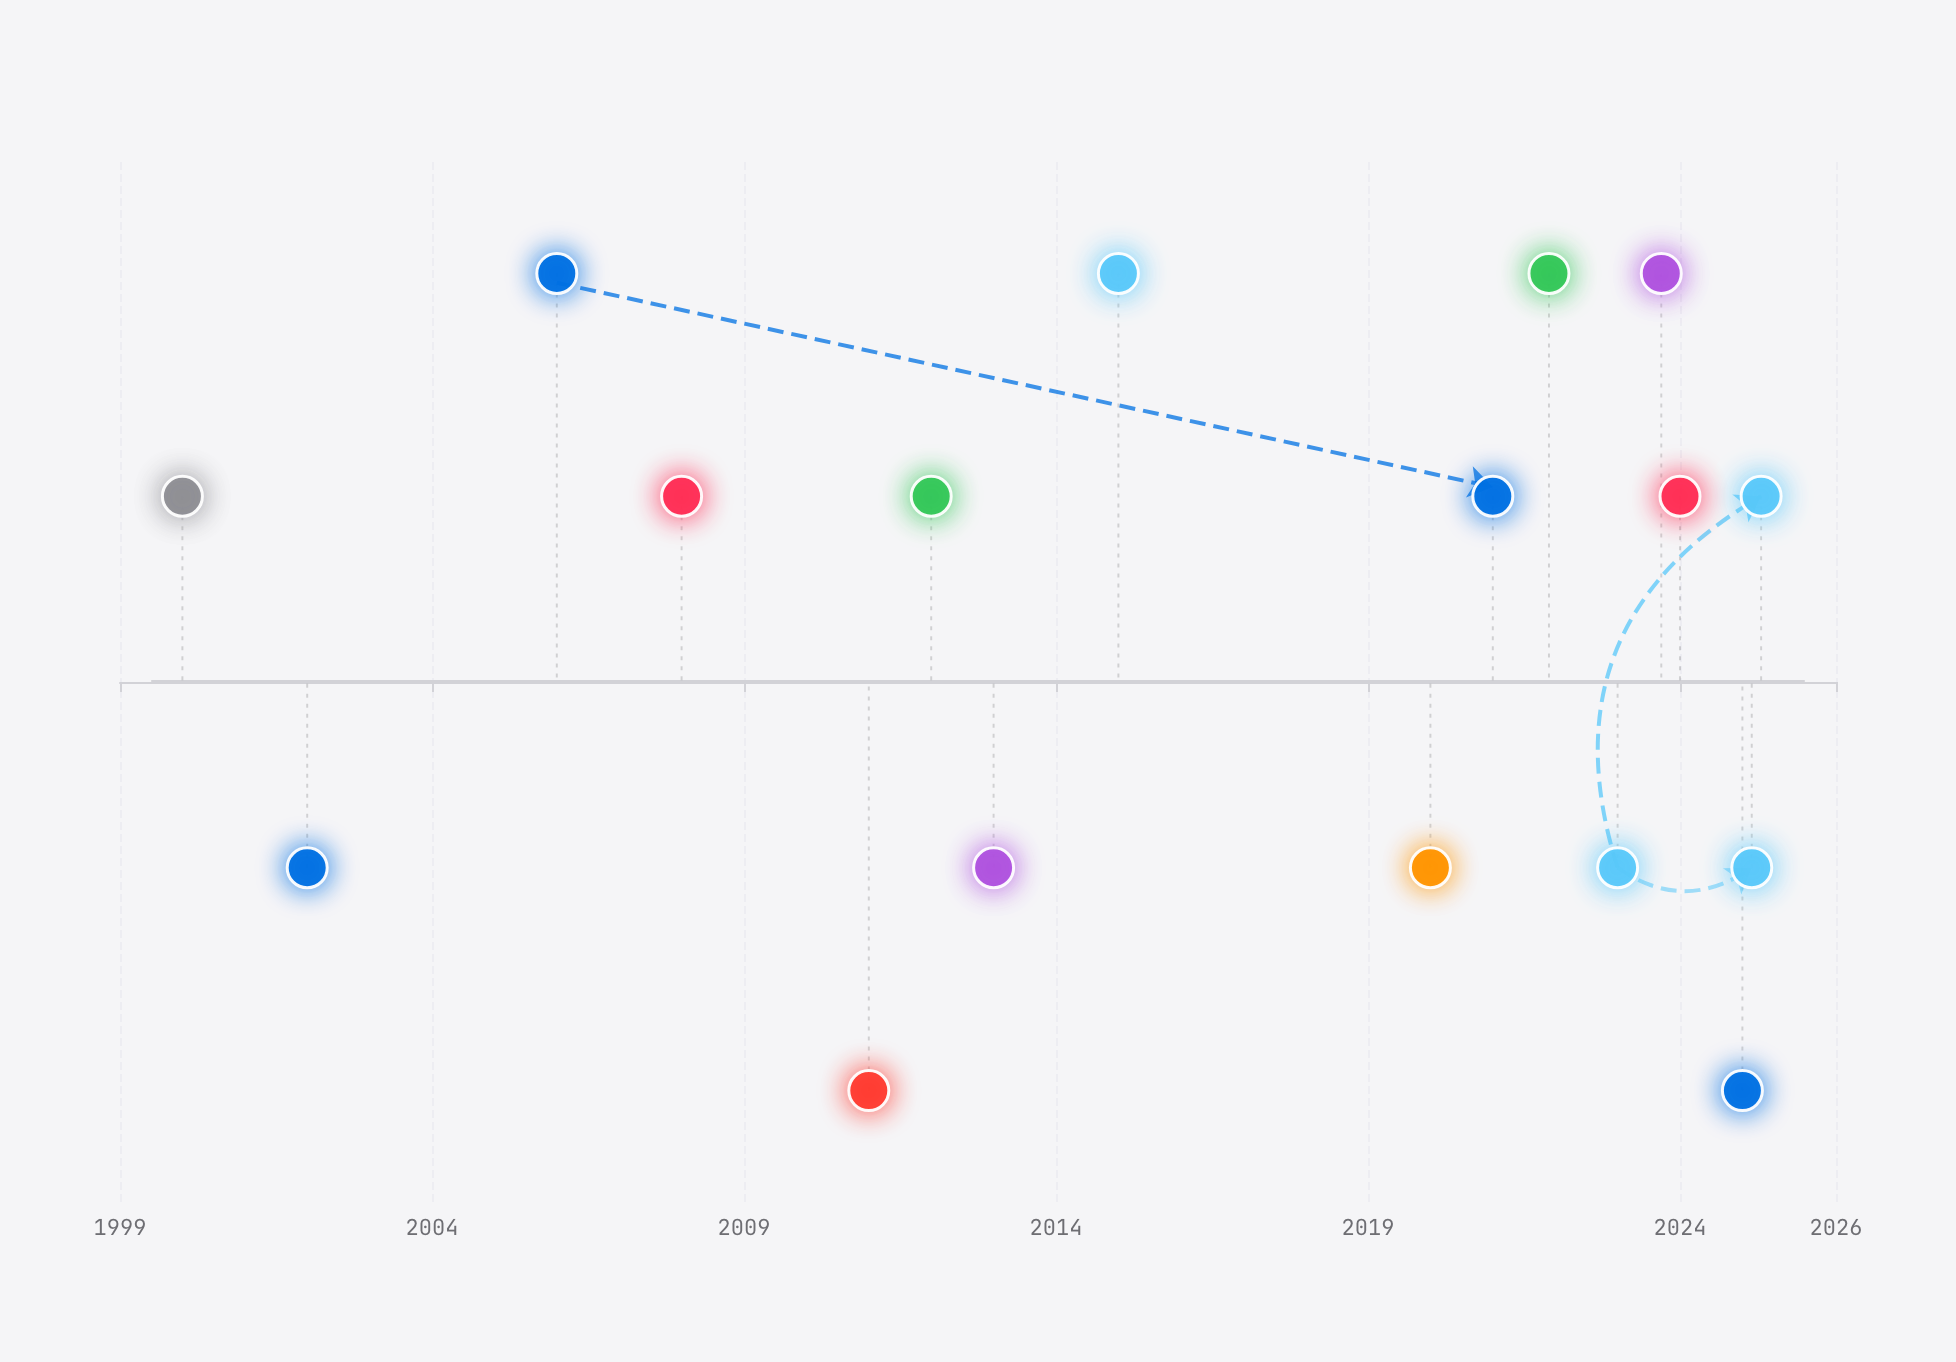
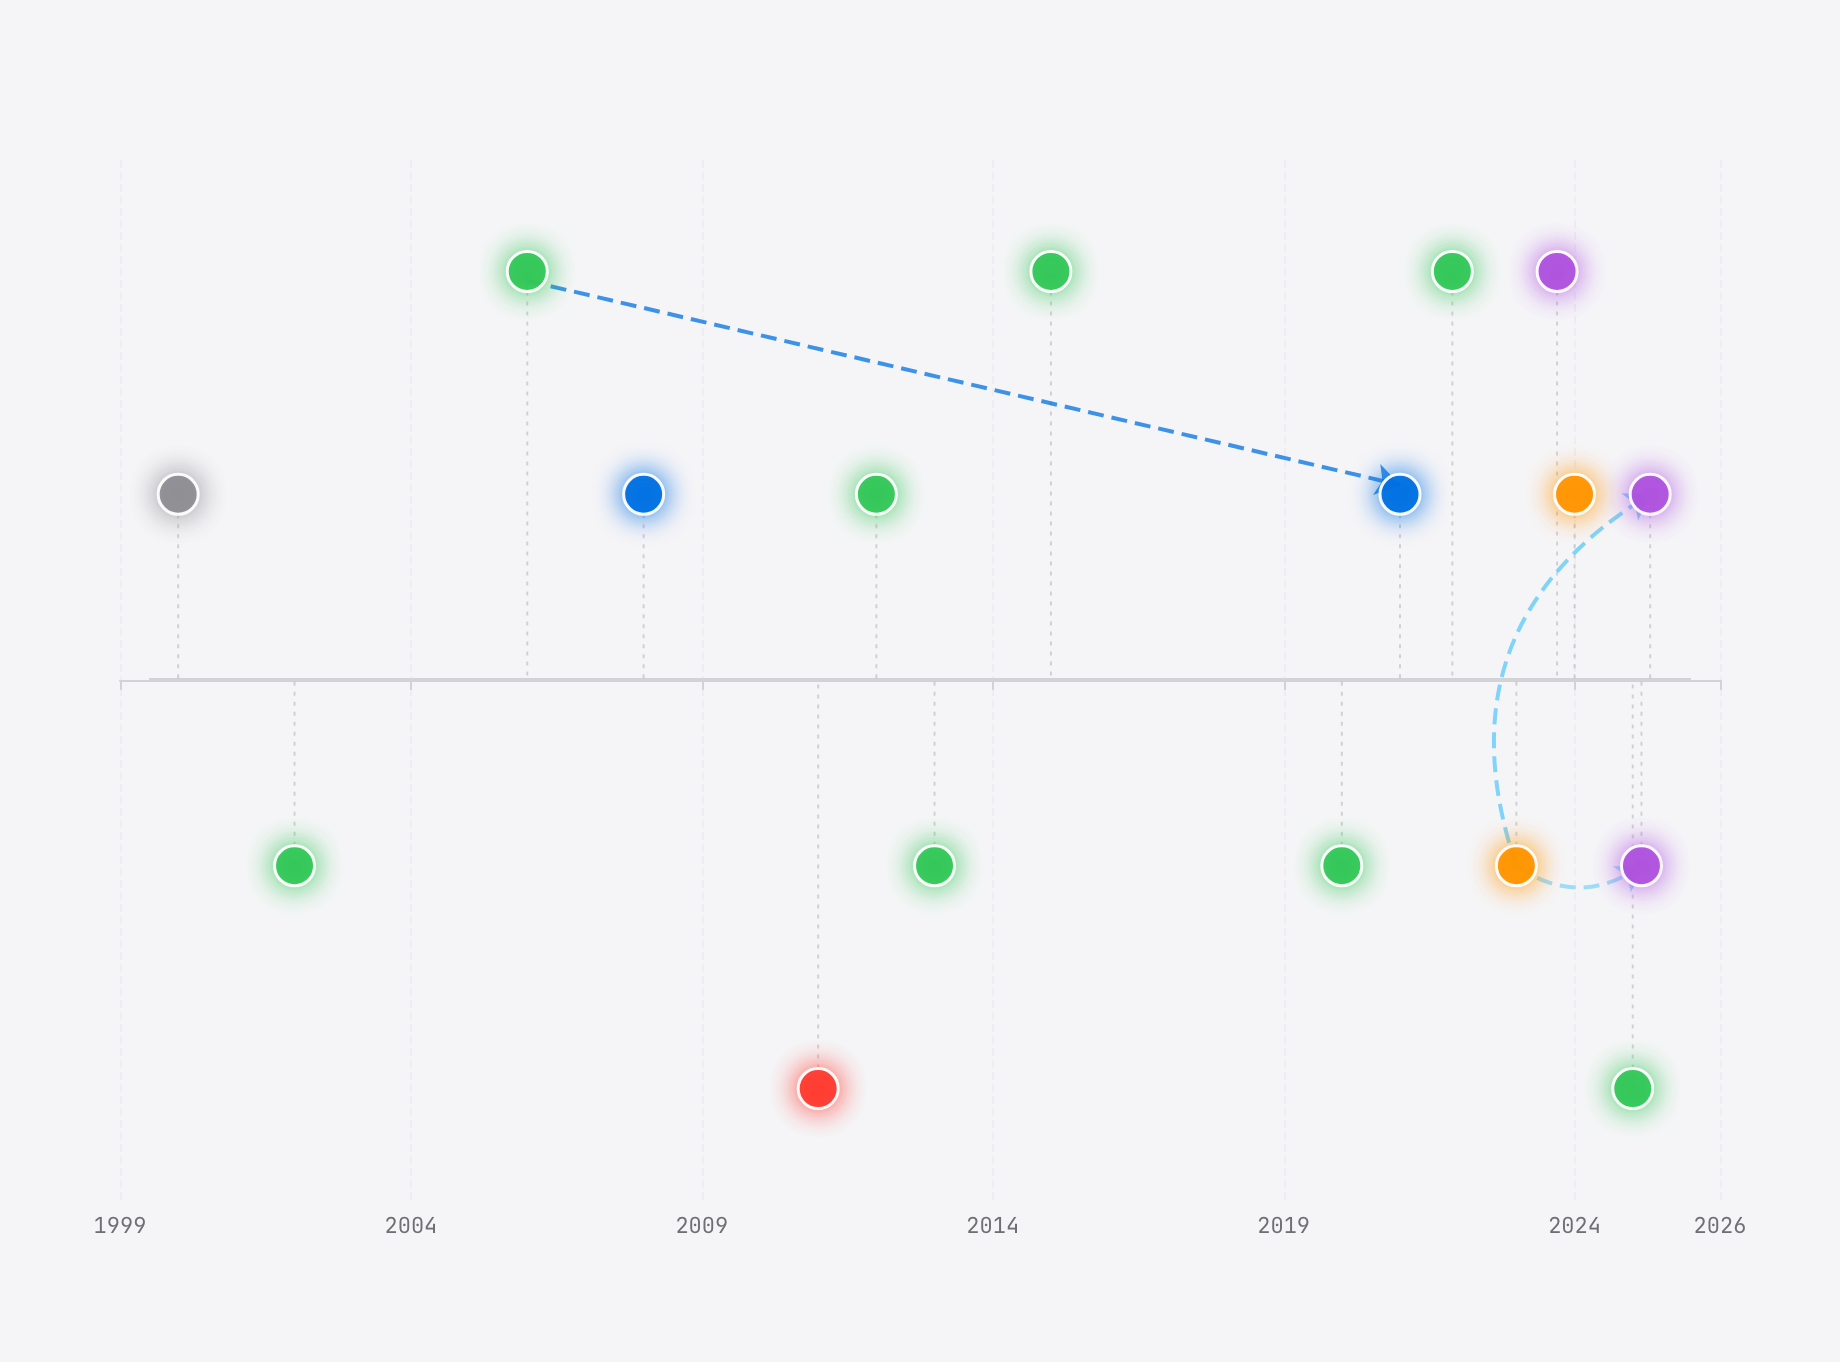
Part 0.1: add colour-key legends to Spinout Timeline + Age-at-Appointment
Two more legends in the same pattern as chart-2/3/5/g:

- Spinout Timeline (chart-7): existing dot colours were ad-hoc — some
  by firm, some by event type, some inconsistent. Recoloured the TREE
  events to a clean six-tier event-type scheme and injected a legend:
    Founding / spinout (green) · M&A / acquisition (blue) ·
    People move (purple) · Restructuring (orange) ·
    Closure (red) · Pre-existing (grey)
  Each event reclassified accordingly (e.g. Caffarra-leaves, Calanchi,
  Hunt are now People moves; Compass Lexecon merger and McKinsey-buys-
  Vivid are M&A; Compass Lexecon reshuffle and Keystone Europe build
  are Restructuring).

- Age at Appointment (chart-age): bars are coloured by firm category
  via SEGMENT_COLORS. Injected a legend showing the five canonical
  categories that actually appear in the dataset (Broad, Competition,
  Litigation, Macro, Overlap). Policy and Regulation are omitted
  because no firms in the n>=15 cut fall in those categories.

Re-exported chart-7 and chart-age mobile PNGs.

diff --git a/blog/consultancy-series/part0.1-visual-story.html b/blog/consultancy-series/part0.1-visual-story.html
@@ -1067,24 +1067,31 @@ const CHARGES_SANKEY = {
   ]
 };
 
+// Event-type colour scheme:
+//   Founding / spinout : #34c759 (green)
+//   M&A / acquisition  : #0071e3 (blue)
+//   People move        : #af52de (purple)
+//   Restructuring      : #ff9500 (orange)
+//   Closure / bankruptcy: #ff3b30 (red)
+//   Pre-existing context: #8e8e93 (grey)
 const TREE = [
   {y:2000,    name:"NERA UK incorporated",               color:'#8e8e93', desc:"UK office since 1980s.", lane: 1.0},
-  {y:2002,    name:"RBB Economics founded",              color:'#0071e3', desc:"Ridyard, Bishop, Baker + 13 leave NERA.", lane:-1.0},
-  {y:2006,    name:"Vivid Economics founded",            color:'#0071e3', desc:"Cameron Hepburn's climate boutique.", lane: 2.2},
-  {y:2008,    name:"Compass Lexecon merger",             color:'#ff2d55', desc:"FTI merges Compass + Lexecon.", lane: 1.0},
+  {y:2002,    name:"RBB Economics founded",              color:'#34c759', desc:"Ridyard, Bishop, Baker + 13 leave NERA.", lane:-1.0},
+  {y:2006,    name:"Vivid Economics founded",            color:'#34c759', desc:"Cameron Hepburn's climate boutique.", lane: 2.2},
+  {y:2008,    name:"Compass Lexecon merger",             color:'#0071e3', desc:"FTI merges Compass + Lexecon.", lane: 1.0},
   {y:2011,    name:"LECG bankruptcy",                    color:'#ff3b30', desc:"Alumni scatter to BRG and Compass Lexecon.", lane:-2.2},
   {y:2012,    name:"BRG launches UK",                    color:'#34c759', desc:"Teece's second firm.", lane: 1.0},
-  {y:2013,    name:"Fingleton Ltd founded",              color:'#af52de', desc:"John Fingleton leaves OFT.", lane:-1.0},
-  {y:2015,    name:"Flint Global founded",               color:'#5ac8fa', desc:"Richards + Fraser found political advisory.", lane: 2.2},
-  {y:2020,    name:"Pragmatix Advisory",                 color:'#ff9500', desc:"Mark Pragnell leaves Cebr.", lane:-1.0},
+  {y:2013,    name:"Fingleton Ltd founded",              color:'#34c759', desc:"John Fingleton leaves OFT.", lane:-1.0},
+  {y:2015,    name:"Flint Global founded",               color:'#34c759', desc:"Richards + Fraser found political advisory.", lane: 2.2},
+  {y:2020,    name:"Pragmatix Advisory",                 color:'#34c759', desc:"Mark Pragnell leaves Cebr.", lane:-1.0},
   {y:2021,    name:"McKinsey buys Vivid",                color:'#0071e3', desc:"130 economists absorbed (Mar 2021).", lane: 1.0},
   {y:2021.9,  name:"Grant Thornton Economics launches",  color:'#34c759', desc:"Horn + Williams hired from A&M (Nov 2021).", lane: 2.2},
-  {y:2023,    name:"Keystone Europe built",              color:'#5ac8fa', desc:"Caffarra, Coscelli, Hunt — three senior hires in six months.", lane:-1.0},
+  {y:2023,    name:"Keystone Europe built",              color:'#ff9500', desc:"Caffarra, Coscelli, Hunt — three senior hires in six months.", lane:-1.0},
   {y:2023.7,  name:"Caffarra leaves Keystone",           color:'#af52de', desc:"Moves to UCL + CEPR. No commercial firm.", lane: 2.2},
-  {y:2024,    name:"Compass Lexecon reshuffle",          color:'#ff2d55', desc:"Coppi/Dryden/Edwards-Warren become co-heads (Feb 2024).", lane: 1.0},
-  {y:2025,    name:"Econic Partners launches",           color:'#0071e3', desc:"Orszag + 25 walk from Compass Lexecon. Goldman Sachs backing (19 Feb 2025).", lane:-2.2},
-  {y:2025.15, name:"Calanchi → Econic",                  color:'#5ac8fa', desc:"Gianmarco Calanchi leaves Keystone for Econic London.", lane:-1.0},
-  {y:2025.3,  name:"Hunt → AlixPartners",                color:'#5ac8fa', desc:"Stefan Hunt joins AlixPartners as Partner/MD (2 Dec 2025).", lane: 1.0}
+  {y:2024,    name:"Compass Lexecon reshuffle",          color:'#ff9500', desc:"Coppi/Dryden/Edwards-Warren become co-heads (Feb 2024).", lane: 1.0},
+  {y:2025,    name:"Econic Partners launches",           color:'#34c759', desc:"Orszag + 25 walk from Compass Lexecon. Goldman Sachs backing (19 Feb 2025).", lane:-2.2},
+  {y:2025.15, name:"Calanchi → Econic",                  color:'#af52de', desc:"Gianmarco Calanchi leaves Keystone for Econic London.", lane:-1.0},
+  {y:2025.3,  name:"Hunt → AlixPartners",                color:'#af52de', desc:"Stefan Hunt joins AlixPartners as Partner/MD (2 Dec 2025).", lane: 1.0}
 ];
 
 // ============================================================================
@@ -1848,6 +1855,26 @@ function renderTimeline() {
 }
 renderTimeline();
 
+// Inject event-type colour-key legend below chart 7 (Spinout Timeline)
+(() => {
+  const types = [
+    {label:'Founding / spinout', color:'#34c759', desc:'New firm launched — usually with senior people leaving an existing firm'},
+    {label:'M&A / acquisition',  color:'#0071e3', desc:'Acquisition or merger event'},
+    {label:'People move',        color:'#af52de', desc:'Senior individual moving between firms'},
+    {label:'Restructuring',      color:'#ff9500', desc:'Internal reshuffle or major team build-out'},
+    {label:'Closure',            color:'#ff3b30', desc:'Firm bankruptcy or wind-down'},
+    {label:'Pre-existing',       color:'#8e8e93', desc:'Long-standing firm shown for context'}
+  ];
+  const host = document.getElementById('chart-7');
+  if (!host || host.parentNode.querySelector('.timeline-legend')) return;
+  const wrap = document.createElement('div');
+  wrap.className = 'segment-legend timeline-legend';
+  wrap.innerHTML = types.map(t =>
+    `<span class="seg-item" title="${t.desc}"><span class="seg-sw" style="background:${t.color}"></span><span class="seg-lbl" style="color:${t.color}">${t.label}</span></span>`
+  ).join('');
+  host.parentNode.insertBefore(wrap, host.nextSibling);
+})();
+
 // ============================================================================
 // CHART J — Cost structure stacked bar (from NOTE J)
 // ============================================================================
@@ -2236,6 +2263,20 @@ const chartAge = echarts.init(document.getElementById('chart-age'));
       }
     ]
   });
+
+  // Inject category colour-key legend below chart-age. Only the categories
+  // that actually appear in the BY_FIRM dataset are shown (Policy and
+  // Regulation have no firms with n>=15 records here).
+  const present = ['Broad','Competition','Litigation','Macro','Overlap'];
+  const host = document.getElementById('chart-age');
+  if (!host || host.parentNode.querySelector('.age-legend')) return;
+  const wrap = document.createElement('div');
+  wrap.className = 'segment-legend age-legend';
+  wrap.innerHTML = present.map(cat => {
+    const c = SEGMENT_COLORS[cat];
+    return `<span class="seg-item"><span class="seg-sw" style="background:${c}"></span><span class="seg-lbl" style="color:${c}">${cat}</span></span>`;
+  }).join('');
+  host.parentNode.insertBefore(wrap, host.nextSibling);
 })();
 
 // ============================================================================
